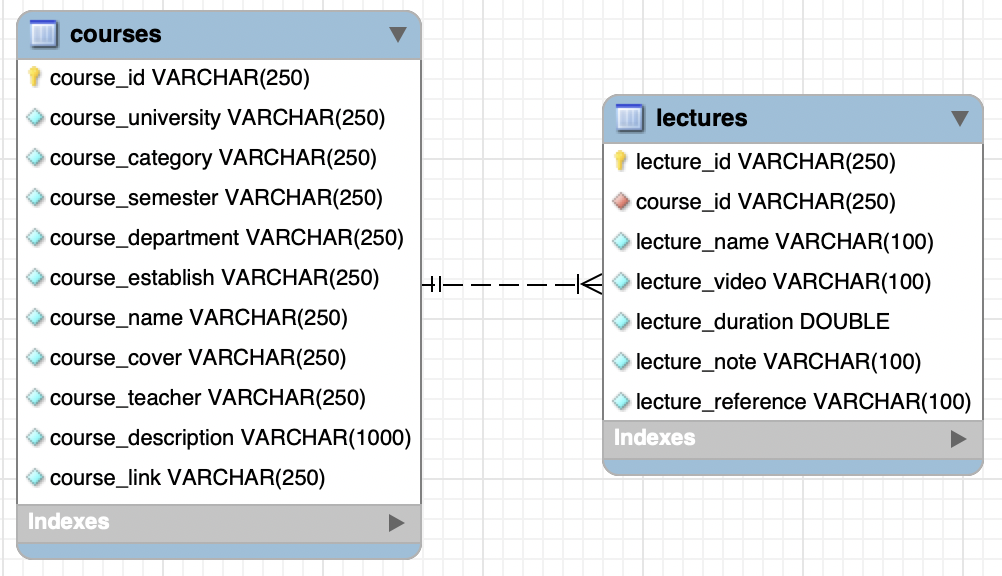
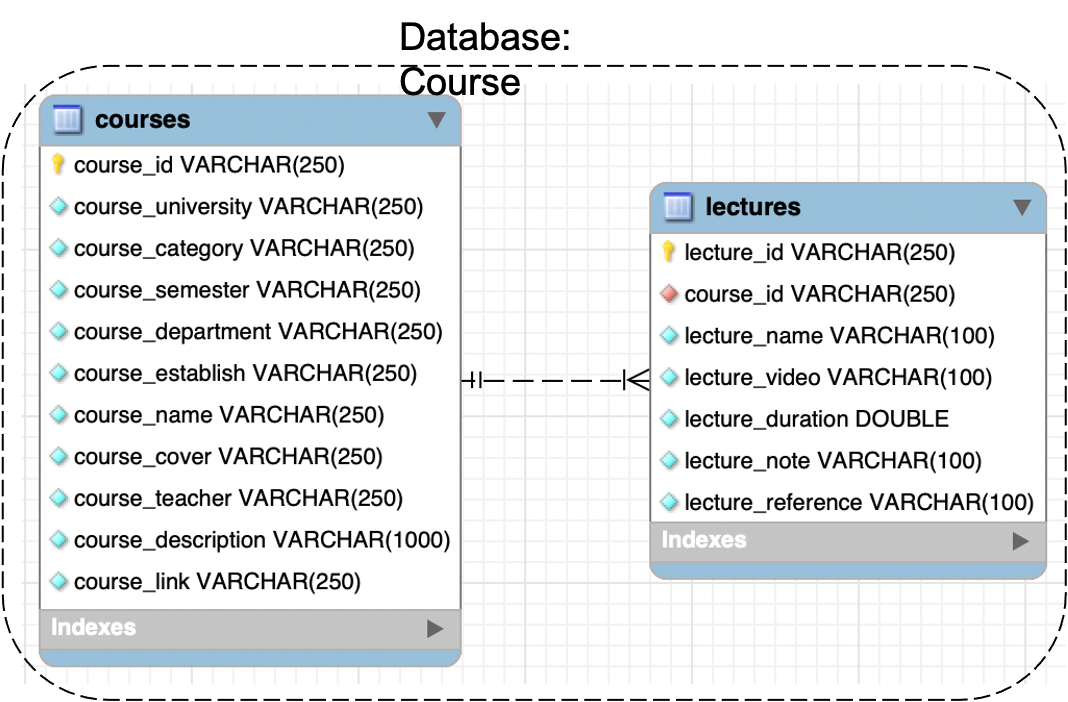
add SQL EER

diff --git a/README.md b/README.md
@@ -52,6 +52,13 @@ test password:123123123123<br>
 
 #### 資料庫配置
 
+Course & Lecture <br>
+<img src="https://github.com/Blucas0707/ocw.notebook.taiwan/blob/main/Readme/SQL/course_lecture.png" alt="" width="50%" />
+
+
+
+User, Note, Learning & Status <br>
+<img src="https://github.com/Blucas0707/ocw.notebook.taiwan/blob/main/Readme/SQL/user_note_status_learning.png" alt="" width="50%" />
 
 
 ### 關鍵字查找ElasticSearch
